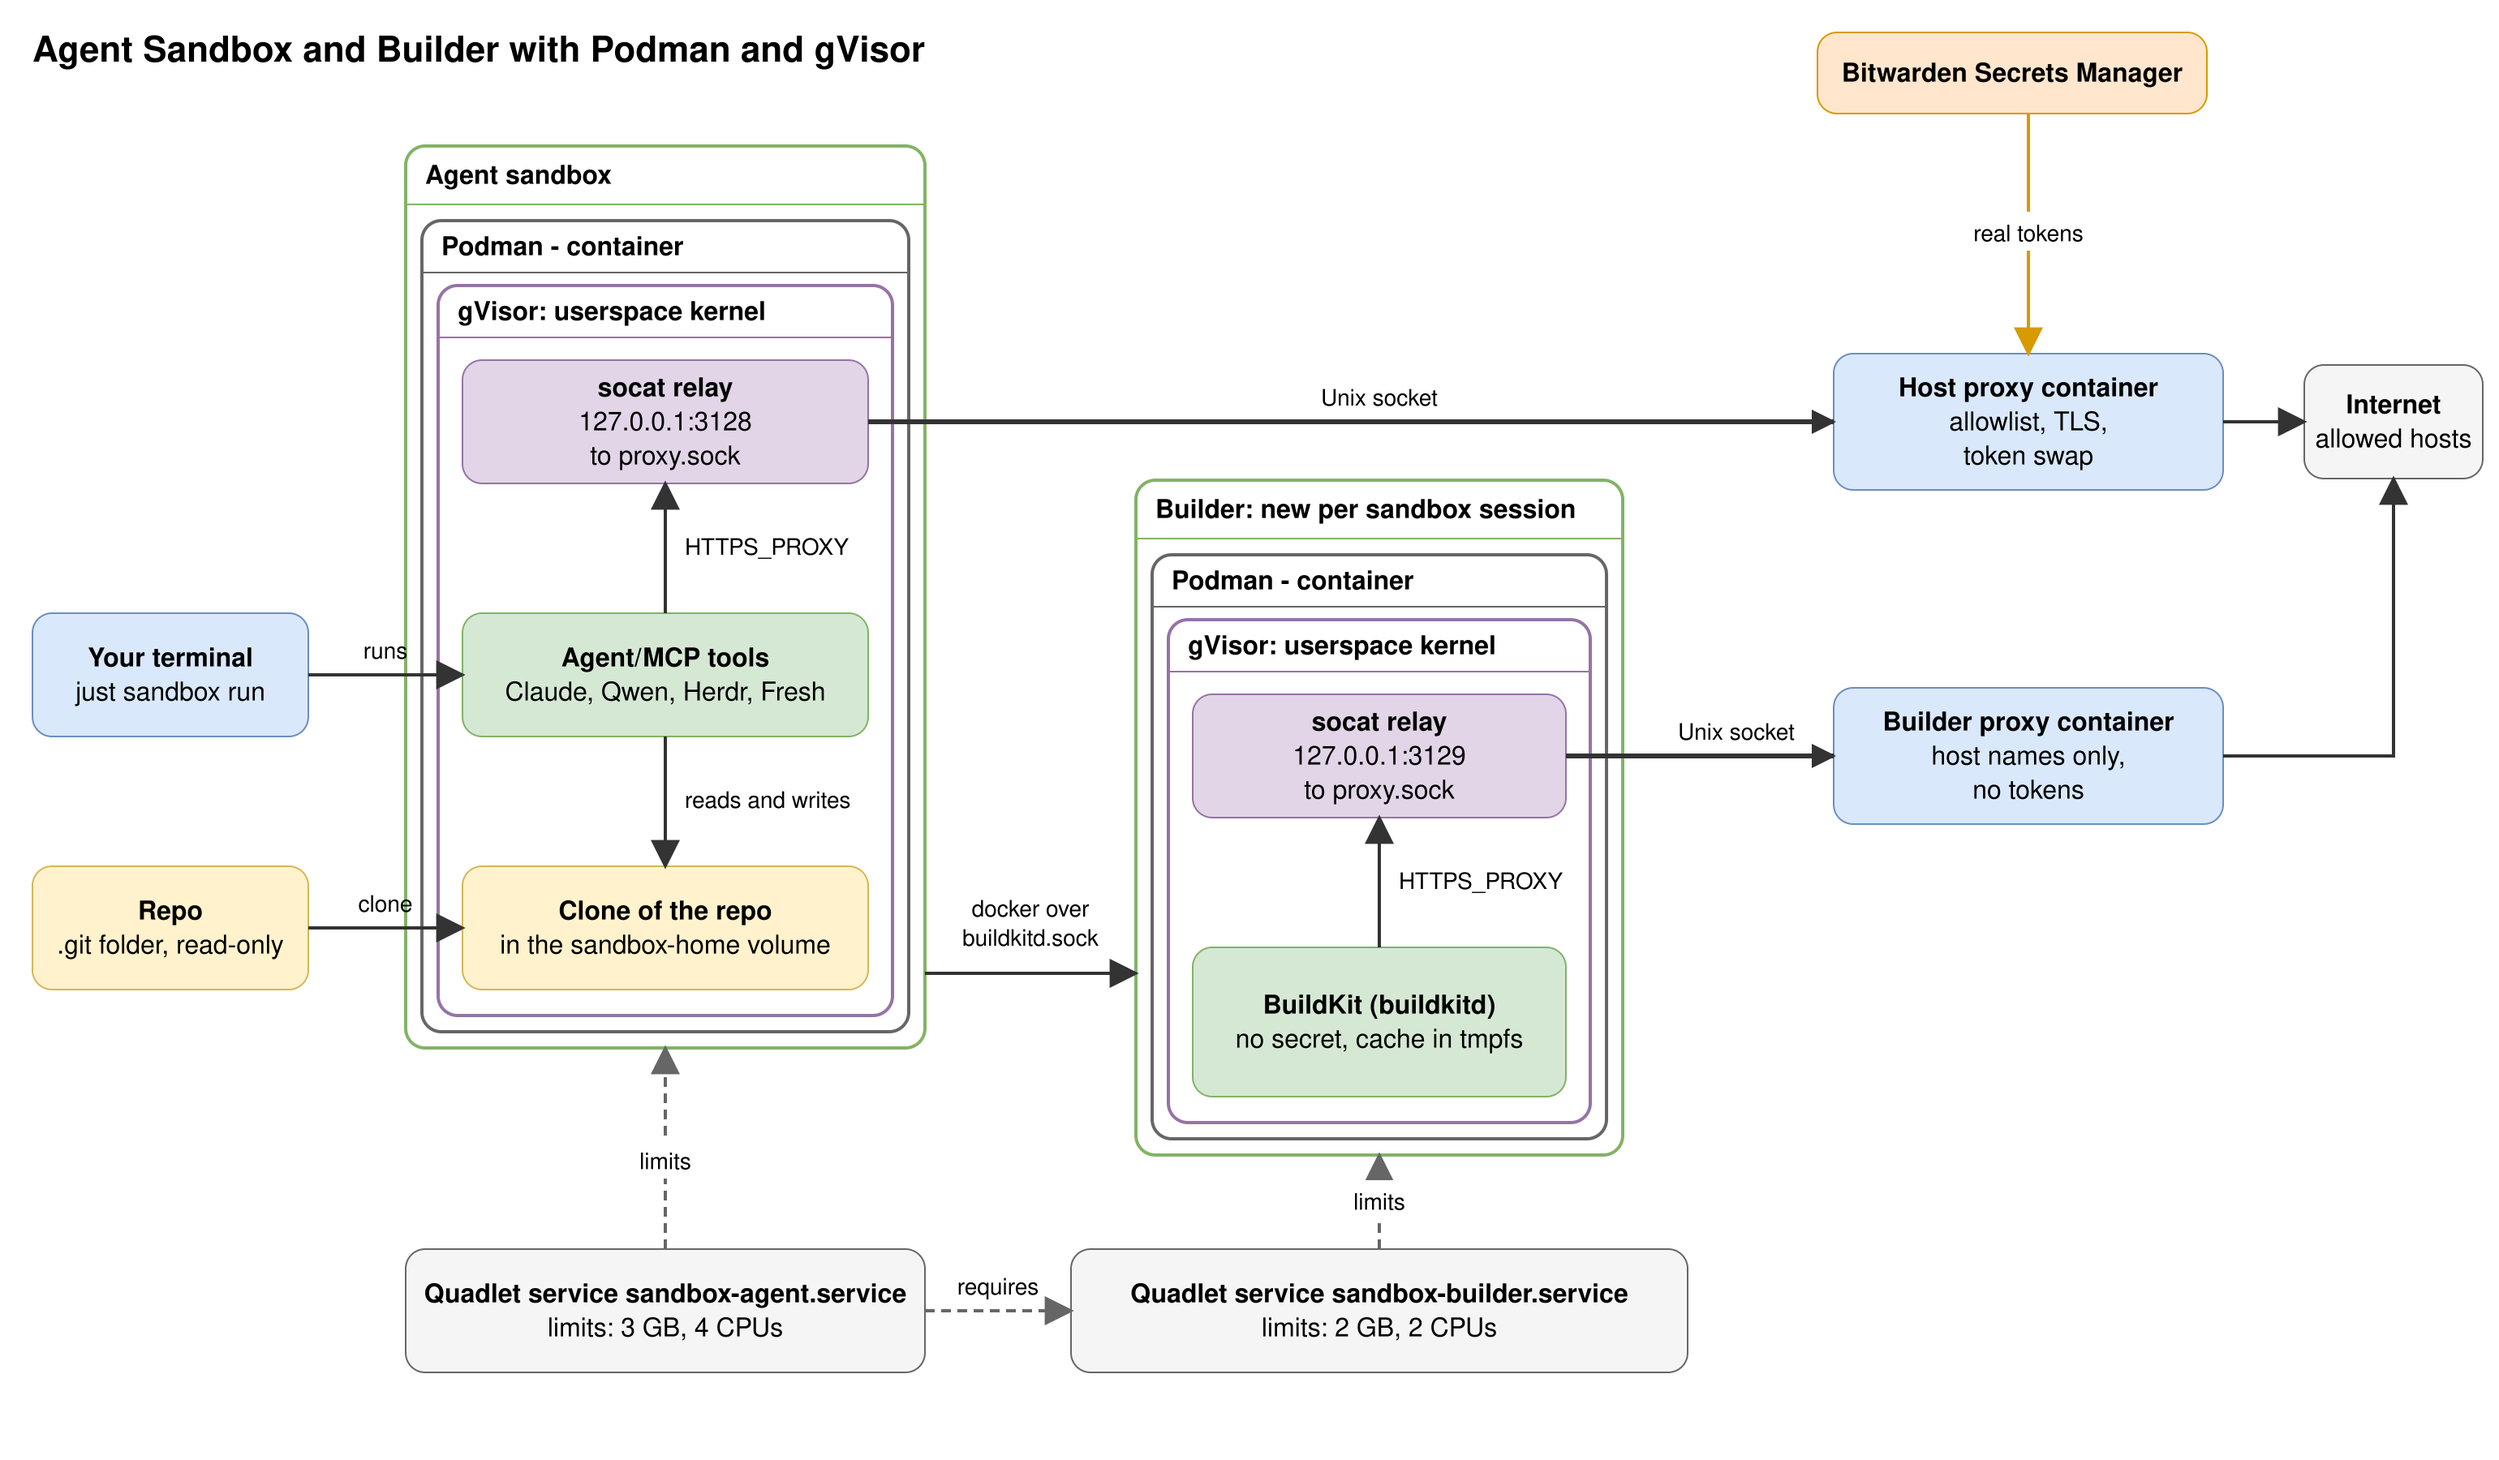
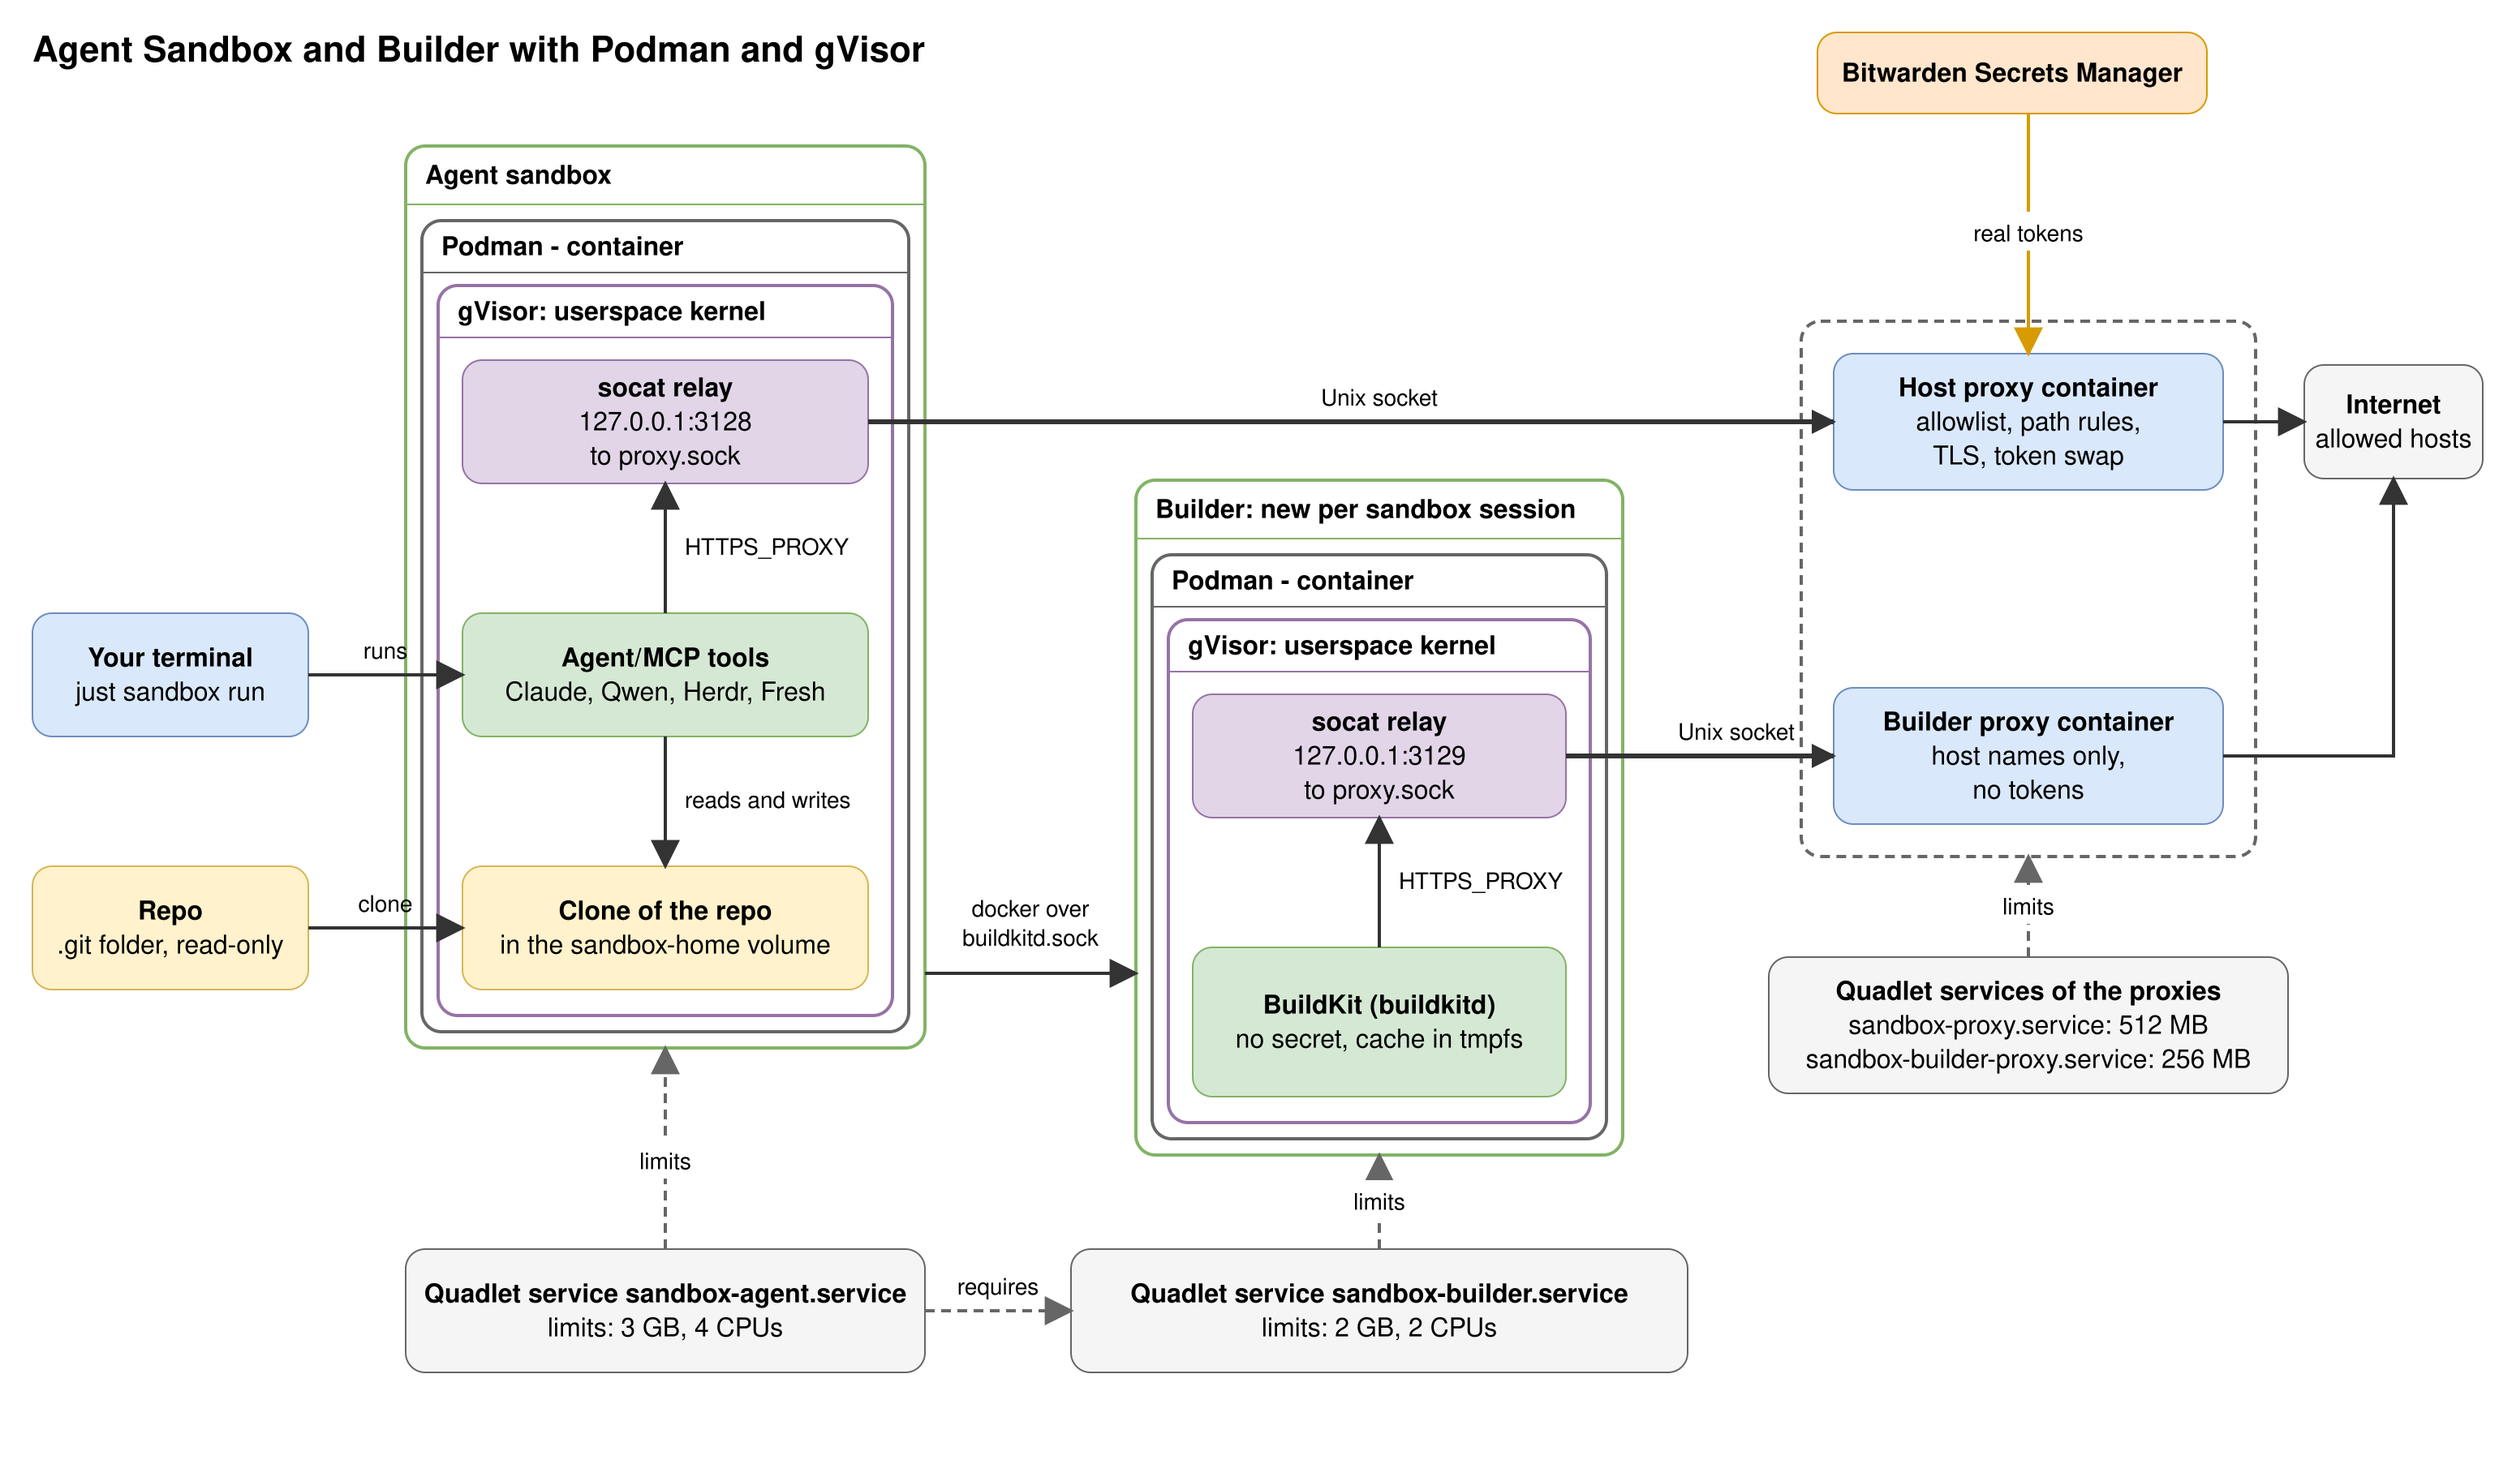
docs: show the path rules in the diagrams, the README and the flows
The diagrams name the path rules of the host proxy, the network diagram notes that GitHub writes go to one repository, and the architecture diagram shows the services of both proxies. The README has a section about what the agent can reach. internals.md has a flow of how the host proxy judges a request.

Changed region(s): [[0.7169, 0.6533, 0.9039, 0.7467], [0.7792, 0.28, 0.8416, 0.3422], [0.8104, 0.5911, 0.8416, 0.6222]]

diff --git a/.sandbox/docs/diagrams/README.md b/.sandbox/docs/diagrams/README.md
@@ -2,10 +2,10 @@
 
 | File | Use |
 |---|---|
-| `architecture.drawio` | Source of the architecture diagram. Shows your terminal, the repo, the agent sandbox, the builder, both proxy containers, Bitwarden and the internet. Each container is three nested boxes: the sandbox, Podman and gVisor. Each has the same `socat relay` box with an `HTTPS_PROXY` arrow in and a `Unix socket` arrow out to its proxy container. The agent sandbox reaches the builder with `docker` over `buildkitd.sock`. A Quadlet service holds the limits of each container. |
+| `architecture.drawio` | Source of the architecture diagram. Shows your terminal, the repo, the agent sandbox, the builder, both proxy containers, Bitwarden and the internet. Each container is three nested boxes: the sandbox, Podman and gVisor. Each has the same `socat relay` box with an `HTTPS_PROXY` arrow in and a `Unix socket` arrow out to its proxy container. The agent sandbox reaches the builder with `docker` over `buildkitd.sock`. A Quadlet service holds the limits of each container. A grey box shows the services of the two proxies. |
 | `architecture.svg` | The diagram as a plain SVG with real `<text>` elements and a white background. Drawn from the coordinates of the `.drawio` file. |
 | `architecture.png` | The PNG of the SVG, 2x with a white background. Make it with `rsvg-convert -z 2 -b white architecture.svg -o architecture.png`. |
-| `sandbox-network.drawio` | Source of the network diagram. Shows two lanes, one for the agent sandbox and one for the builder. Each lane has the network namespace, the sentry with the `socat` relay, the gofer, `proxy.sock` and its proxy container. The proxy container has a `socat` and `iron-proxy`. An orange box shows the systemd credential that the host proxy mounts. The host proxy ends TLS (`mitm`). The builder proxy passes TLS through (`sni-only`). An arrow shows `docker build` from the agent sandbox to `buildkitd` over `buildkitd.sock`. Each line names its carrier. |
+| `sandbox-network.drawio` | Source of the network diagram. Shows two lanes, one for the agent sandbox and one for the builder. Each lane has the network namespace, the sentry with the `socat` relay, the gofer, `proxy.sock` and its proxy container. The proxy container has a `socat` and `iron-proxy`. An orange box shows the systemd credential that the host proxy mounts. The host proxy ends TLS (`mitm`) and applies the path rules. The builder proxy passes TLS through (`sni-only`). An arrow shows `docker build` from the agent sandbox to `buildkitd` over `buildkitd.sock`. Each line names its carrier. |
 | `sandbox-network.svg` | The network diagram as a plain SVG, drawn in the same way. |
 | `sandbox-network.png` | The PNG of that SVG, made with `rsvg-convert -z 2 -b white sandbox-network.svg -o sandbox-network.png`. |
 | `build-push.drawio` | Source of the build and push diagram. Shows the path of `docker build` from the agent sandbox to the builder, the tar file, and the path of `crane push` through the host proxy to `ghcr.io`. |

diff --git a/.sandbox/docs/internals.md b/.sandbox/docs/internals.md
@@ -6,7 +6,7 @@
 - A relay in the container turns the proxy address that tools expect into that file.
 - Each proxy runs in its own container. A `socat` there joins the file to the proxy.
 - The host proxy holds the real tokens. The builder proxy holds none.
-- Both proxies allow listed hosts only.
+- Both proxies allow listed hosts only. The host proxy also checks the method and the path, so a write goes to one GitHub repository only.
 - The agent sandbox sends a build to the builder through a socket in a shared folder.
 - Quadlet turns each container file into a systemd service. The service limits memory, CPU and threads.
 
@@ -146,12 +146,29 @@ sequenceDiagram
     Relay->>gVisor: connect to proxy.sock
     gVisor->>Socat: the gofer opens proxy.sock
     Socat->>Proxy: copy the bytes to 127.0.0.1:18080
-    alt the host is listed
+    alt a rule matches the host, the method and the path
         Proxy->>Host: send the request, host proxy swaps the placeholder
-    else the host is not listed
+    else no rule matches
         Proxy-->>Tool: 403
     end
 ```
+
+The host proxy judges each request in this order:
+
+```mermaid
+flowchart TD
+    R["Request in the tunnel"] --> H{"Host in the allowlist or in a rule?"}
+    H -->|no| D1["403"]
+    H -->|yes| M{"Method and path match?"}
+    M -->|no| D2["403"]
+    M -->|yes| P{"Placeholder in a header, and host in its rule?"}
+    P -->|yes| S["Replace it with the real token"]
+    P -->|no| F["Send the request as it is"]
+    S --> U["Send the request to the host"]
+    F --> U
+```
+
+A host in `domains` takes every method and every path. A host in `rules` takes only the methods and the paths of its rules. The builder proxy has no path rules, because it cannot see a path.
 
 The bytes stay the same. The carrier changes three times: TCP to the relay, a Unix socket to the `socat` in the proxy container, and TCP to the proxy. The host proxy ends the TLS with its CA. The builder proxy passes the TLS through.
 

diff --git a/.sandbox/README.md b/.sandbox/README.md
@@ -18,6 +18,14 @@ A coding agent reads text that you did not write. That text can hold a prompt in
 
 [![Architecture of the hardened Podman sandbox](docs/diagrams/architecture.png)](docs/diagrams/architecture.svg)
 
+## What the agent can reach
+
+- **GitHub.** The agent reads any repository. A push and a REST write (issues, comments, pull requests, reviews) go to this repository only. A merge, a file write, a removal, a gist, a fork and GraphQL get `403`.
+- **GitHub MCP server.** The proxy opens the URL. The toolsets and the `deny` list in the settings files limit the tools. You plan a central gateway for this.
+- **`ghcr.io`.** The agent reads any namespace and writes in the namespace `raghav19` only.
+- **Other hosts.** The agent reaches the hosts in `agent/proxy/iron-proxy.yaml`. Any other host gets `403`.
+- **Builds.** A `FROM` or `RUN` step reaches the hosts in `builder/proxy/iron-proxy.yaml`, with no token.
+
 For the parts, the flows, the controls and the limits, read [How the sandbox works in detail](docs/internals.md). The terms are in [The names](docs/internals.md#the-names).
 
 ## Prerequisites
